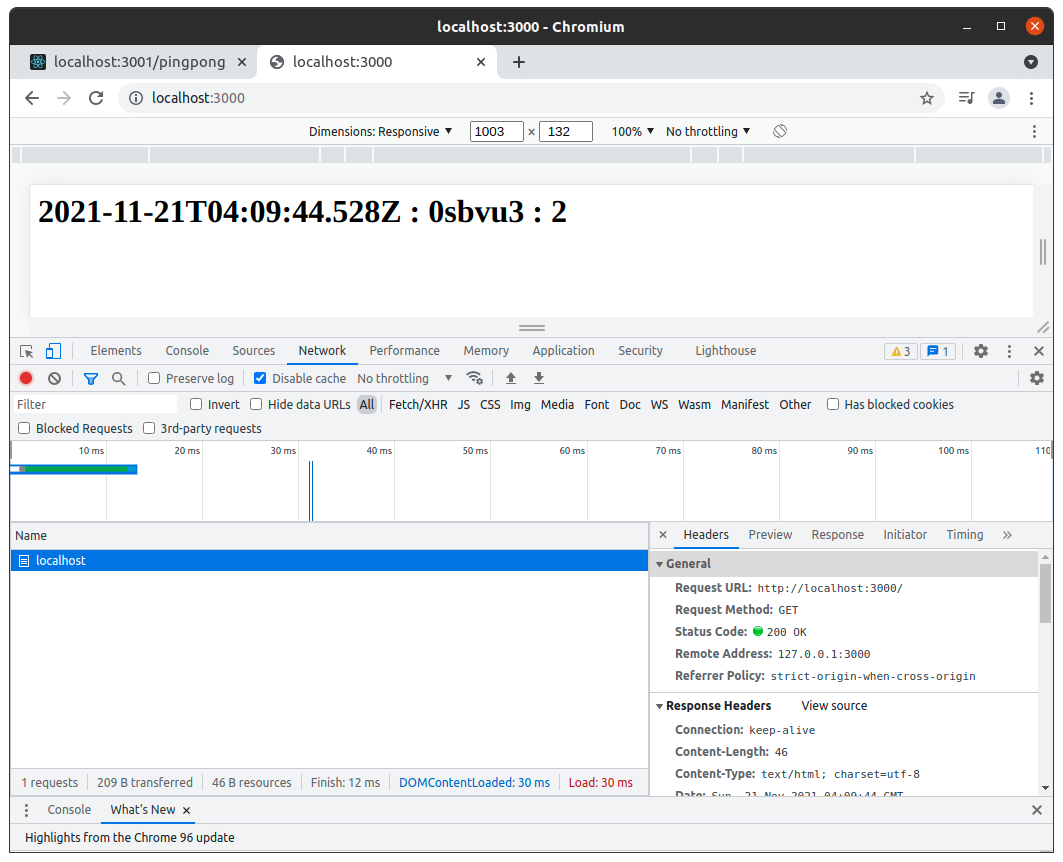
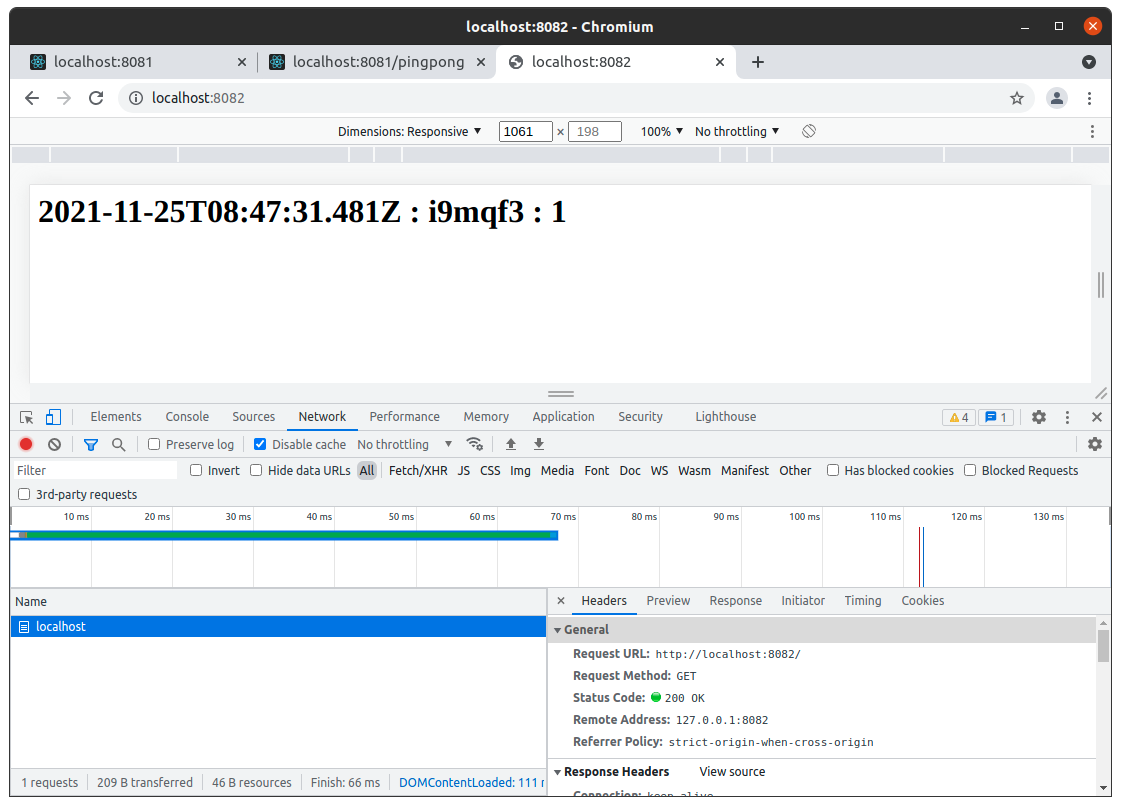
2.07

Changed region(s): [[0.0, 0.3412, 0.9934, 0.9926], [0.0, 0.0, 0.9934, 0.2792], [0.9624, 0.2792, 0.9934, 0.3102]]

diff --git a/2/2.07/app-0-db/index.js b/2/2.07/app-0-db/index.js
@@ -12,7 +12,7 @@ const http = require('http')
 
 // k8s networking
 const options = {
-  hostname: 'backend-service',
+  hostname: 'app-2-db-svc',
   //hostname: 'localhost',
   port: 80,
   //port: 3001,

diff --git a/2/2.07/README.md b/2/2.07/README.md
@@ -1,0 +1,20 @@
+$ kubectl get pods -n app-db-namespace
+
+$ kubectl exec -ti postgresql-ss-0 -n app-db-namespace -- env PGPASSWORD=postgres psql -U postgres
+
+postgres=# \l
+                                 List of databases
+   Name    |  Owner   | Encoding |  Collate   |   Ctype    |   Access privileges   
+-----------+----------+----------+------------+------------+-----------------------
+ postgres  | postgres | UTF8     | en_US.utf8 | en_US.utf8 | 
+
+
+postgres=# \c postgres
+ 
+postgres=# ALTER USER postgres PASSWORD 'postgres';
+
+$ kubectl apply -f manifests/deployment-app-2-db.yaml -n app-db-namespace
+
+$ kubectl apply -f manifests/deployment-app-0-db.yaml -n app-db-namespace
+
+$ kubectl logs app-2-db-dep-795cdf759-qf9fp -n app-db-namespace
